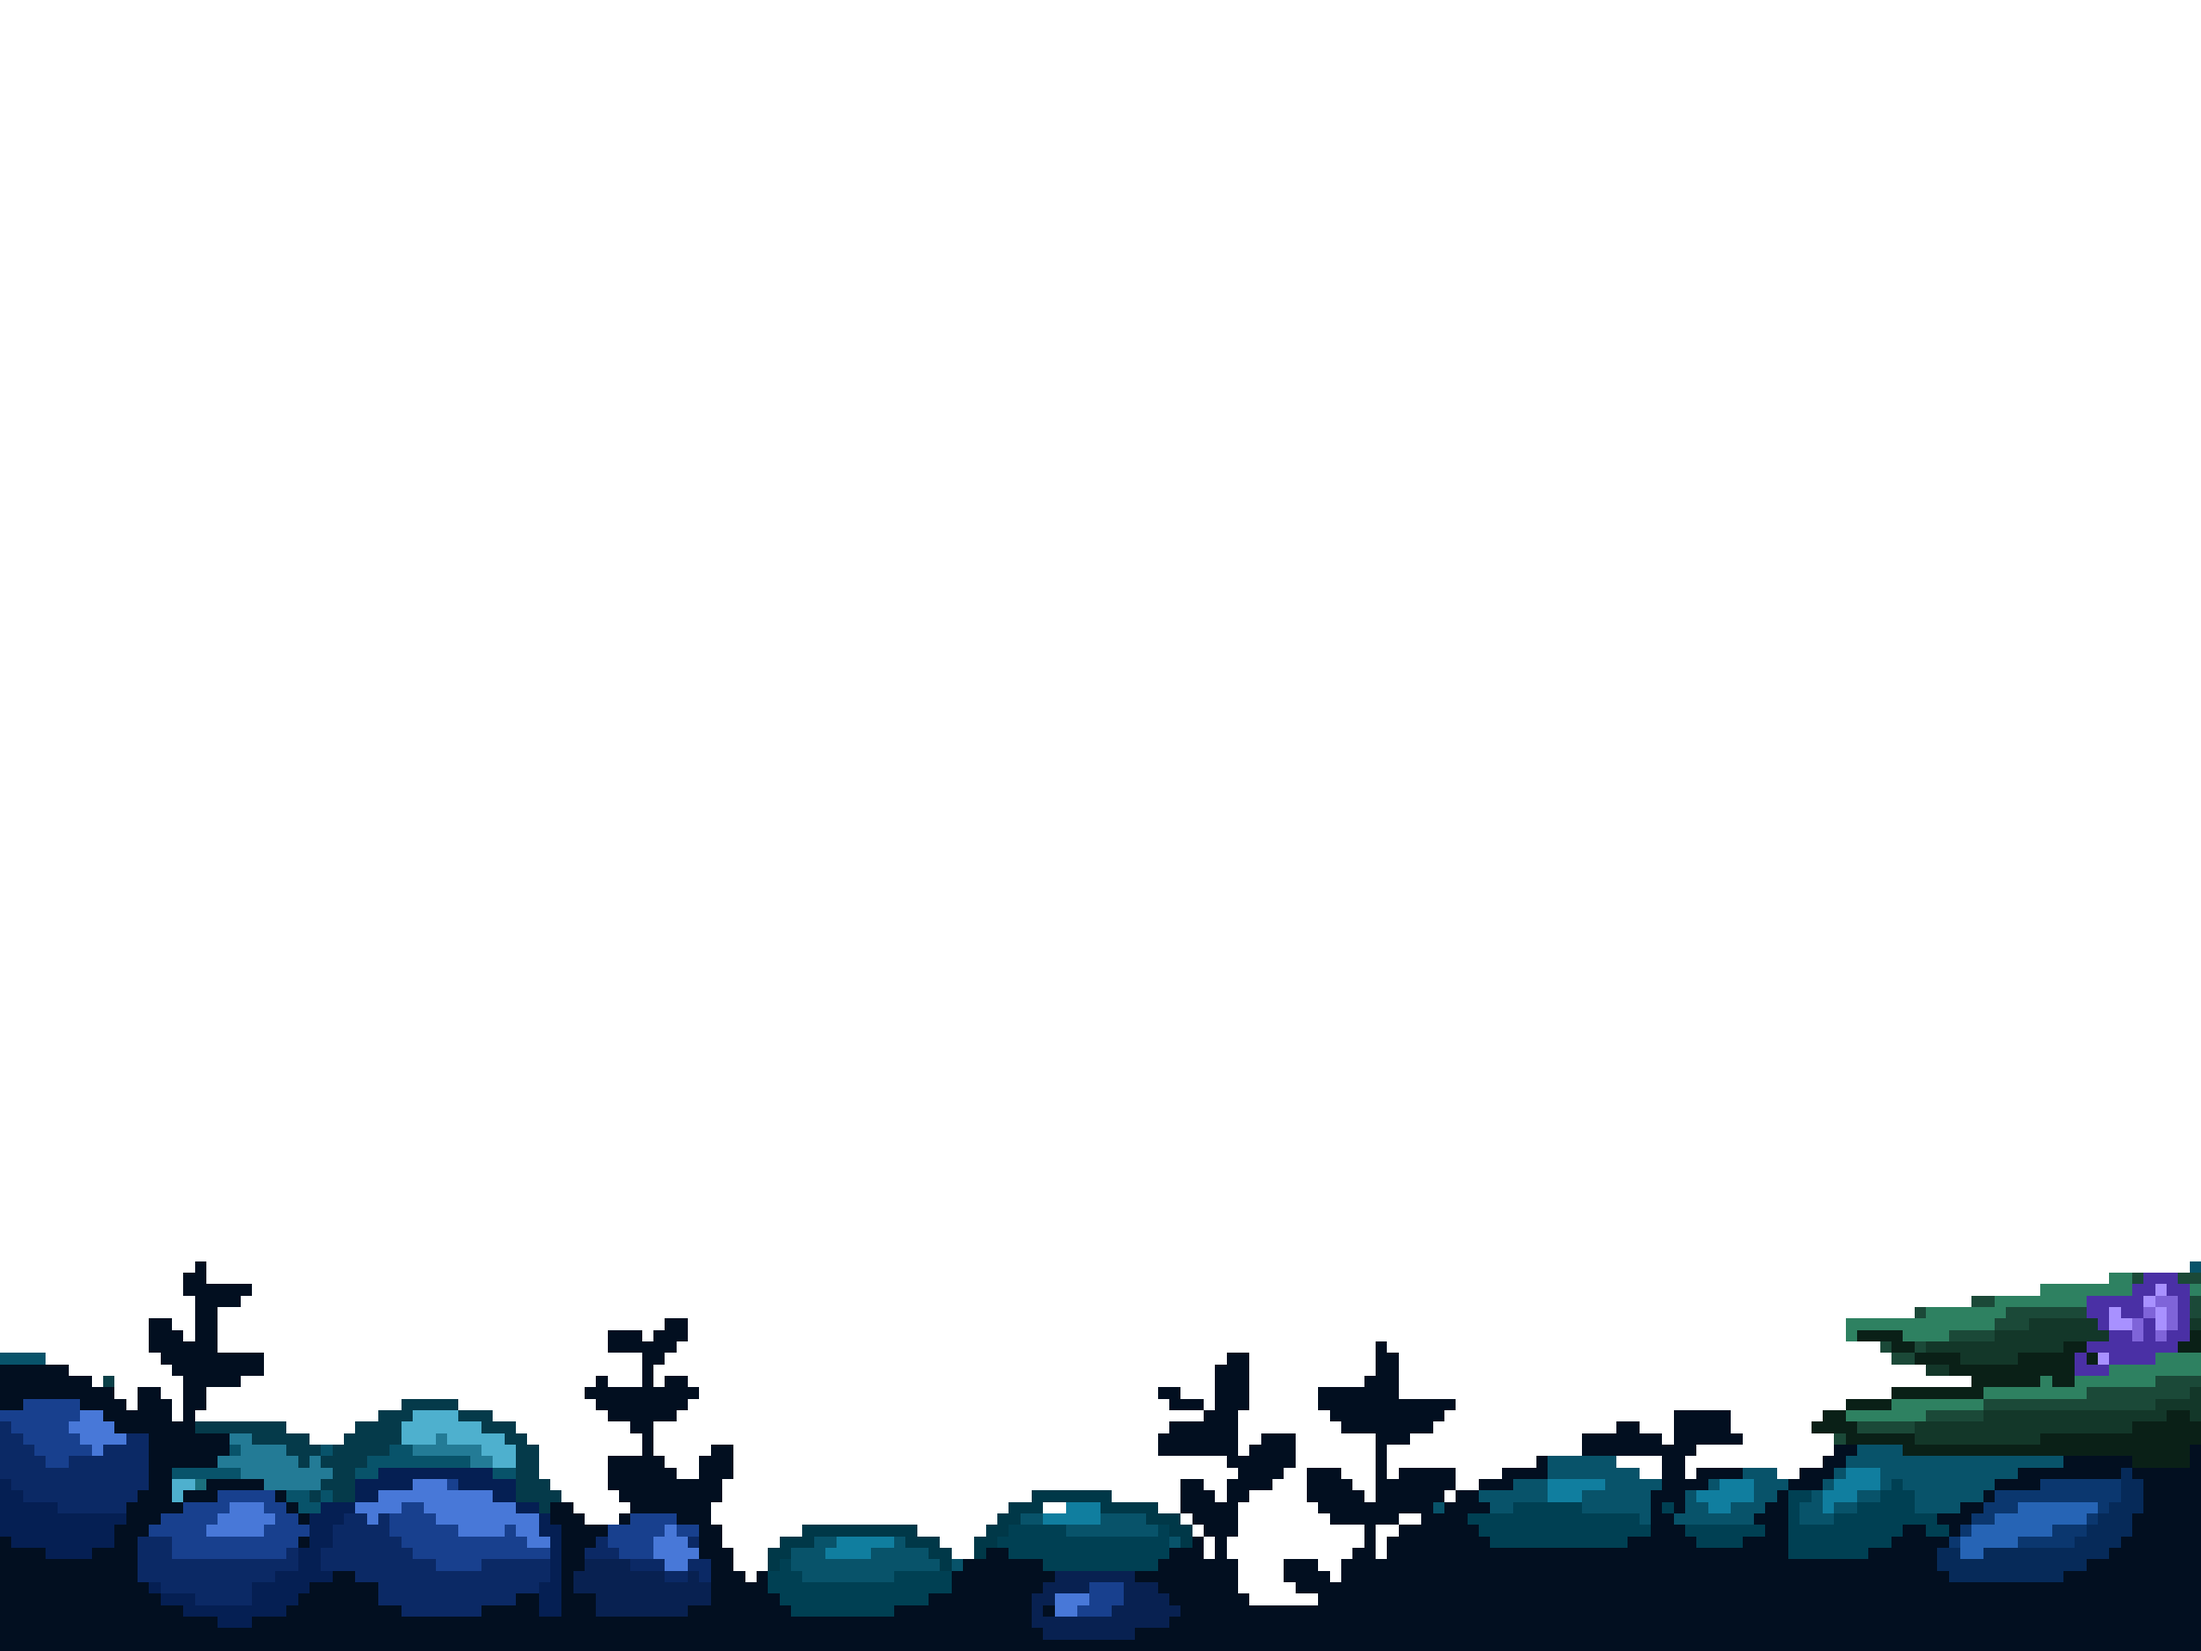
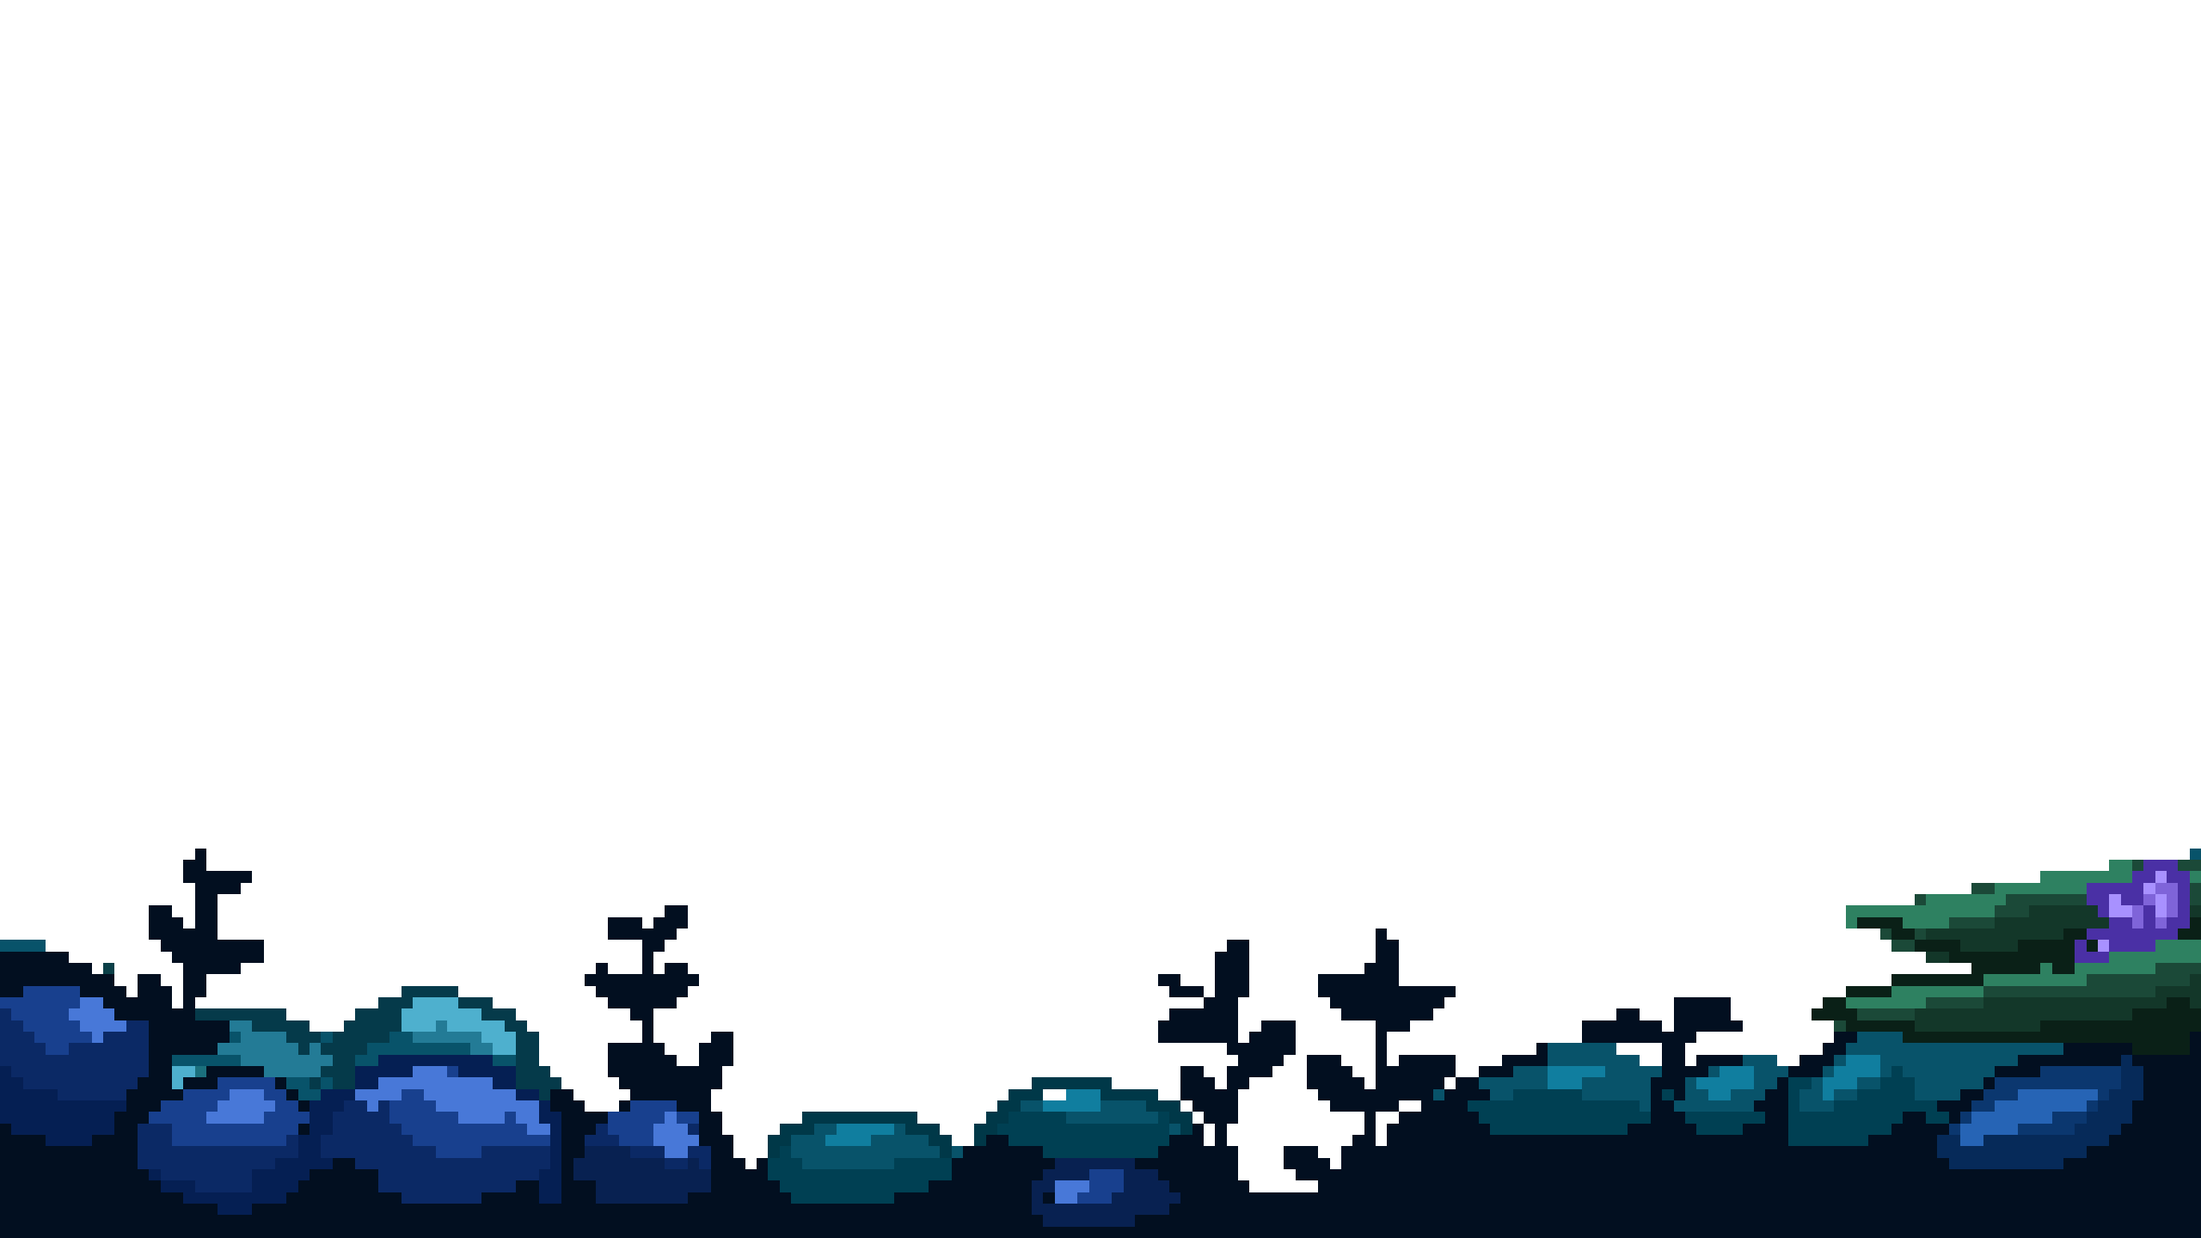
Parallax almost done (need fix)

Changed region(s): [[0.0, 0.6875, 1.0, 1.0]]

diff --git a/src/Reef_Rascals_frontend/src/routes/home-page.tsx b/src/Reef_Rascals_frontend/src/routes/home-page.tsx
@@ -2,23 +2,39 @@ import SidebarNav from "../components/sidebar-nav";
 import styles from "../scss/pages/home-page.module.scss";
 
 export default function HomePage() {
+    let backSeaImg = document.getElementById("backSeaImg");
+    let backStoneImg = document.getElementById("backStoneImg");
+    let midImg = document.getElementById("midImg");
+    let frontImg = document.getElementById("frontImg");
+    let logo = document.getElementById("logo");
+
+    window.addEventListener('scroll', function() {
+        let value = window.scrollY;
+        logo!.style.marginTop = value * 2.5 + 'px';
+        midImg!.style.marginTop = value * 0.15 + 'px';
+        backStoneImg!.style.marginTop = value * 0.25 + 'px';
+    });
+
     return (
         <>
             <SidebarNav/>
             <div className={styles.mainContainer}>
-                <div className={styles.parallaxContainer}>
-                    <img className={styles.backImg} src="/bg-parallax-back.png" alt="" />
-                    <img className={styles.midImg} src="/bg-parallax-mid.png" alt="" />
-                    <div className={styles.logo}>This is Logo</div>
-                    <img className={styles.frontImg} src="/bg-parallax-front.png" alt="" />
-                </div>
-                <div className={styles.aboutContainer}>
+                <section className={styles.parallaxContainer}>
+                    <img id="backSeaImg" src="/bg-parallax-back-sea.png" alt="" />
+                    <img id="backStoneImg" src="/bg-parallax-back-stone.png" alt="" />
+                    <img id="midImg" src="/bg-parallax-mid.png" alt="" />
+                    <img id="lightImg" className={styles.lightImg} src="/bg-parallax-light.png" alt="" />
+                    <img id="logo" className={styles.logo} src="/logo-full.png" alt="" />
+                    <img id="frontImg" src="/bg-parallax-front.png" alt="" />
+                </section>
+
+                <section className={styles.introContainer}>
                     <h1>Introducing Reef Rascals</h1>
                     <p>Reef Rascals is a game where you collect, battle and trade your
                     cute, pesky Rascals. Play this game long enough and you can
                     also gain fortune!</p>
                     <p>Join us and have fun!</p>
-                </div>
+                </section>
             </div>
         </>
     )

diff --git a/src/Reef_Rascals_frontend/src/routes/profile-page.tsx b/src/Reef_Rascals_frontend/src/routes/profile-page.tsx
@@ -17,29 +17,27 @@ export default function ProfilePage() {
     return (
         <>
         <SidebarNav/>
-        <div className={"main-container"}>
-            <img className={"backdrop"} src="/bg-aquarium.png" alt="image not found"/>
-            <div className={"backdrop-overlay"}/>
-            <div className={"left-container"}>
-                <div className={"user-profile-container"}>
-                    <img className={"profile-picture"} src="/Ganyu.jpg" alt={"Image not found"}/>
-                    <div className={"user-info-container"}>
-                        <p className={"khula sm"}>
-                            Date Joined: {user.dateJoined.toDateString()}
-                        </p>
-                        <h1 className={"khula bold"}>
-                            {user.name}
-                        </h1>
-                        <p className={"khula sm"}>
-                            Player ID: {user.id}
-                        </p>
-                    </div>
+        <img className={"backdrop"} src="/bg-aquarium.png" alt="image not found"/>
+        <div className={"backdrop-overlay"}/>
+        <div className={"left-container"}>
+            <div className={"user-profile-container"}>
+                <img className={"profile-picture"} src="/Ganyu.jpg" alt={"Image not found"}/>
+                <div className={"user-info-container"}>
+                    <p className={"khula sm"}>
+                        Date Joined: {user.dateJoined.toDateString()}
+                    </p>
+                    <h1 className={"khula bold"}>
+                        {user.name}
+                    </h1>
+                    <p className={"khula sm"}>
+                        Player ID: {user.id}
+                    </p>
                 </div>
             </div>
+        </div>
 
-            <div className={"right-container"}>
+        <div className={"right-container"}>
 
-            </div>
         </div>
         </>
     )

diff --git a/src/Reef_Rascals_frontend/src/scss/pages/home-page.module.scss b/src/Reef_Rascals_frontend/src/scss/pages/home-page.module.scss
@@ -2,65 +2,53 @@
 @use "../fonts";
 
 .mainContainer {
+    min-height: 100vh;
+    overflow-x: hidden;
     background-color: colors.$dark;
-    position: fixed;
+}
+
+.parallaxContainer {
+    position: relative;
+    display: flex;
+    justify-content: center;
+    align-items: center;
+    height: 100vh;
+}
+
+.parallaxContainer img {
+    position: absolute;
     top: 0;
     left: 0;
-    padding: 0 0 0 70px;
-    width: 100vw;
-    height: 100vh;
-    overflow-x: hidden;
-    display: flex;
-    flex-direction: column;
+    width: 100%;
+    pointer-events: none;
 }
 
-.parallaxContainer, .aboutContainer {
-    width: 100%;
-    min-height: 100vh;
-    position: relative;
-    overflow: hidden;
-    display: flex;
-    color: colors.$white;
-    align-items: center;
-    justify-content: center;
-}
-.logo {
-    font-size: 100px;
-    text-align: center;
-    font-family: fonts.$vt323;
-}
-.backImg,
-.midImg,
-.frontImg {
-    width: 100%;
-    min-height: 100%;
-    object-fit: cover;
+.parallaxContainer h1 {
     position: absolute;
-    bottom: 0;
-}
-.backImg {
-    z-index: -3;
-}
-.midImg {
-    z-index: -2;
-}
-.frontImg {
-    z-index: -1;
 }
 
-.aboutContainer {
-    width: 100%;
-    min-height: 80vh;
+.lightImg {
+    mix-blend-mode: screen;
+}
+
+.parallaxContainer .logo {
     position: relative;
-    overflow: hidden;
+    width: 50%;
+    margin: 0 auto;
+}
+
+.introContainer {
+    position: relative;
+    width: 100%;
     display: flex;
     flex-direction: column;
     justify-content: center;
     align-items: center;
+    text-align: center;
+    background-color: colors.$light-blue;
     color: colors.$white;
-    padding: 10rem;
-    gap: 2rem;  
-    
+    height: 100vh;
+    gap: 2rem;
 
     h1 {
         font-size: 5rem;
@@ -68,7 +56,6 @@
     }
     p {
         font-size: 2rem;
-        text-align: center;
         font-family: fonts.$vt323;
     }
 }
